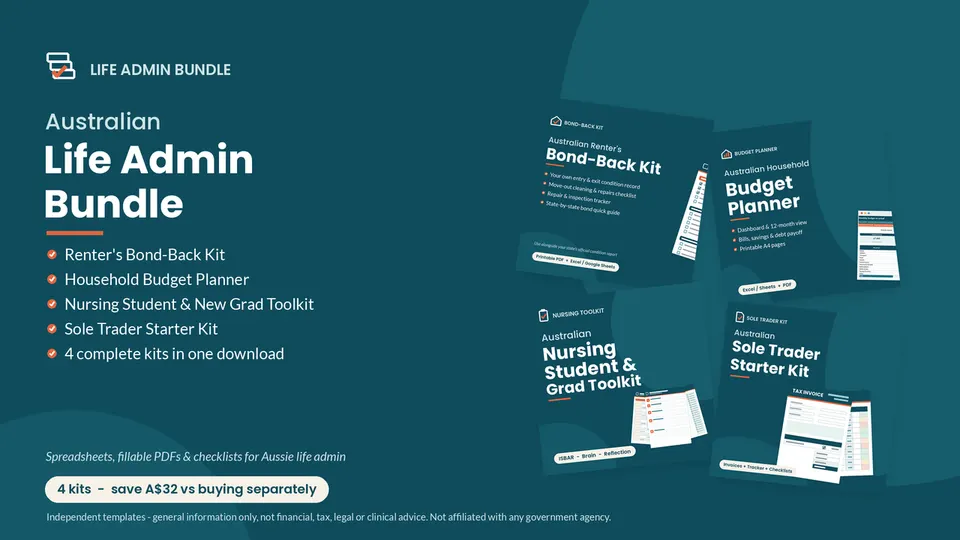
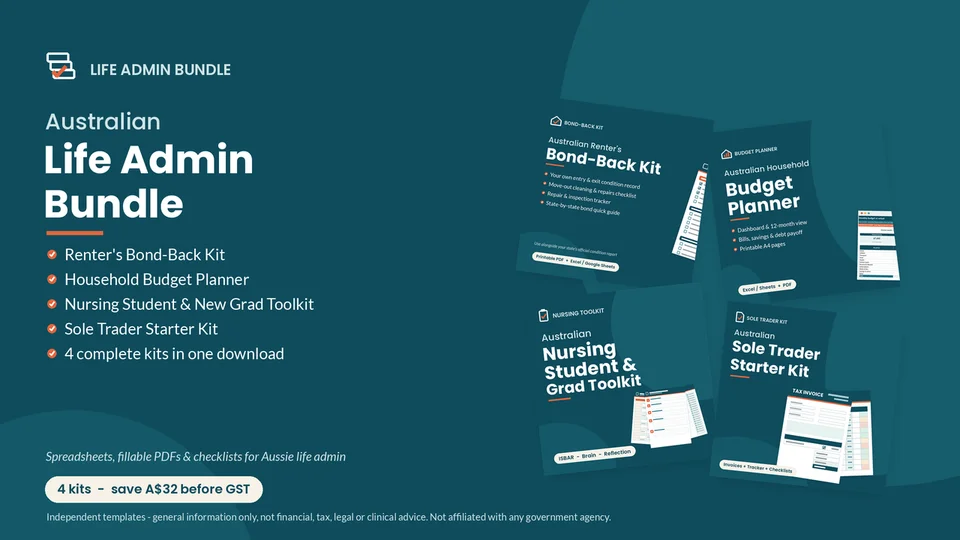
Release: education-first metadata for filter categorisation, bundle cover v2 (#18, combines #16 #17)
Combines PR #17 (education-first homepage title, meta, hero, About, footer and JSON-LD so filters categorise OnlyScrubs as healthcare education) and PR #16 (Life Admin Bundle cover v2 with save A$32 before GST wording).

58 tests passed. CSP hashes unchanged.

Changed region(s): [[0.1875, 0.8593, 0.3438, 0.9481]]

diff --git a/client/styles.css b/client/styles.css
@@ -512,6 +512,14 @@ html.nav-locked body {
   letter-spacing: 0.08em;
   text-transform: uppercase;
 }
+.hero-plain {
+  margin: 0 0 12px;
+  max-width: var(--measure);
+  color: var(--ink);
+  font-size: 1.05rem;
+  font-weight: 600;
+  line-height: 1.45;
+}
 .hero-actions, .button-row { display: flex; flex-wrap: wrap; gap: var(--space-3); margin-top: var(--space-5); }
 .hero-art {
   background: var(--mist);
